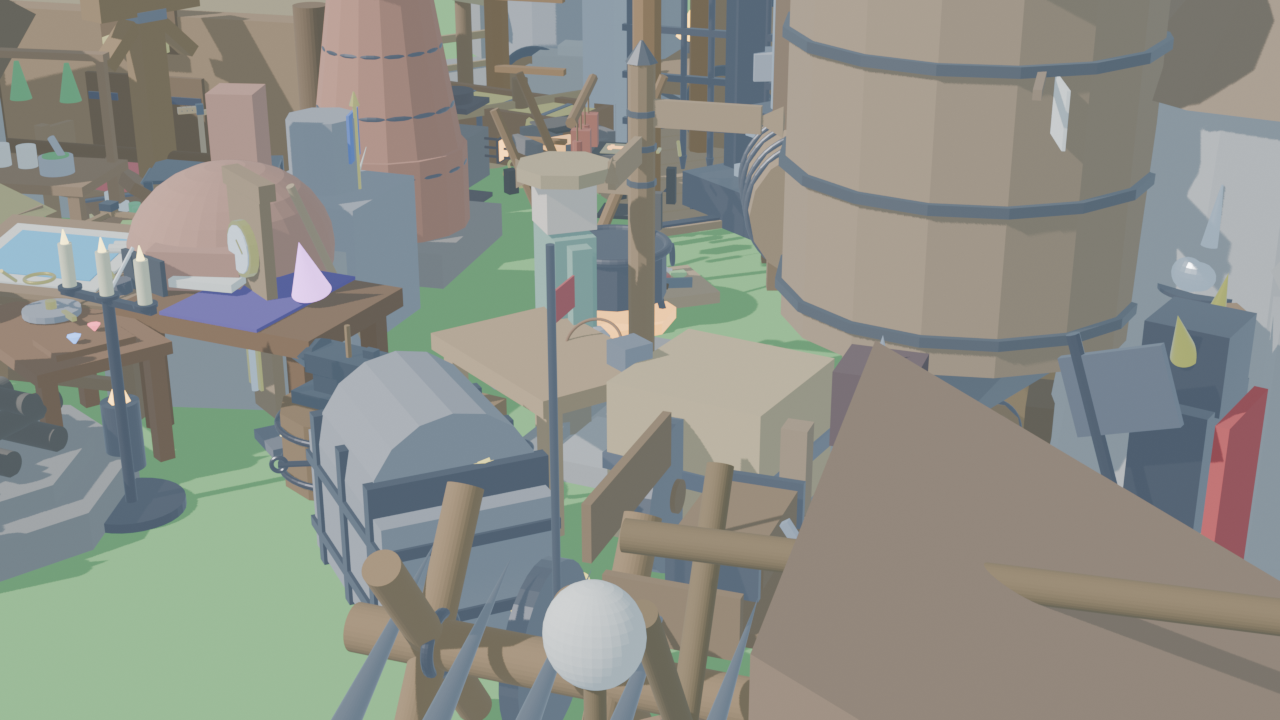
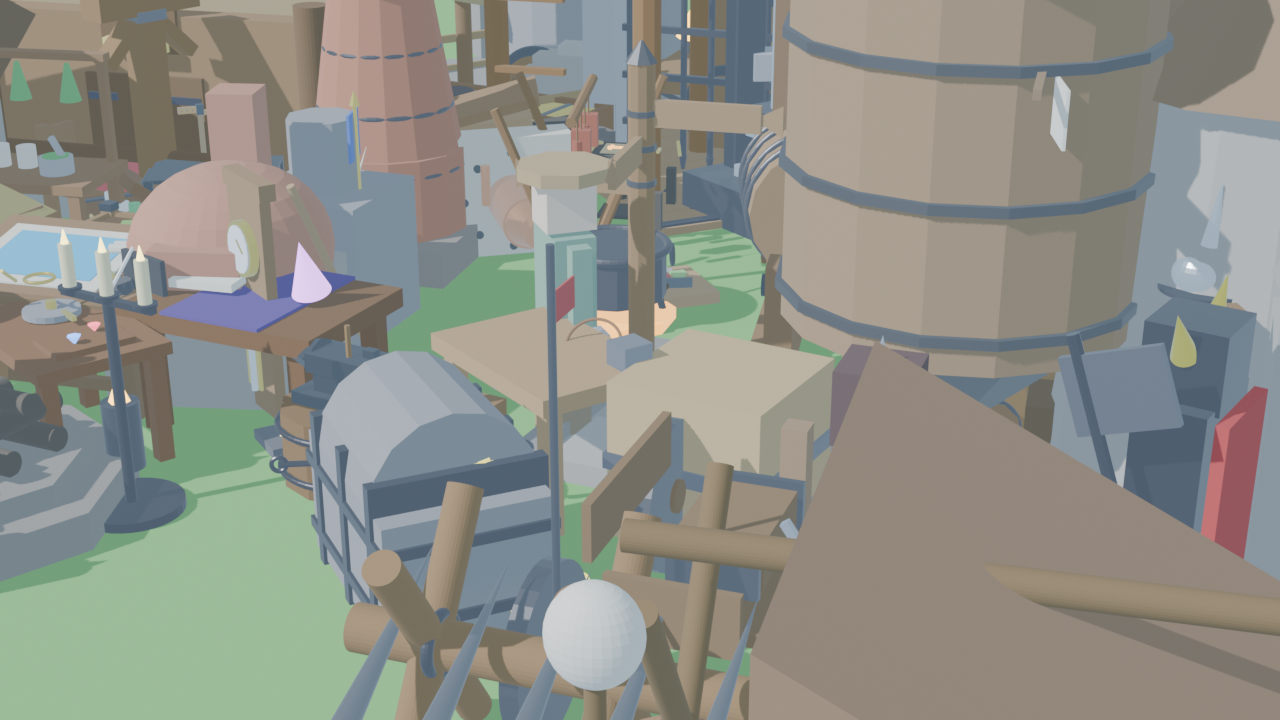
test(mechanisms): add unit tests, update 97-asset diorama, and document Milestone 35 (#29)

Changed region(s): [[0.3438, 0.0917, 0.4688, 0.3667], [0.5625, 0.3667, 0.625, 0.4889]]

diff --git a/tests/test_engine_vertical_slice.py b/tests/test_engine_vertical_slice.py
@@ -3662,6 +3662,113 @@ class TestEngineVerticalSlice(unittest.TestCase):
         arrow_taken = arrow_incoming * (1.0 - hoarding_defense)
         self.assertAlmostEqual(arrow_taken, 24.0, places=1)
 
+    def test_mechanical_bellows_airflow_and_temperature_boost(self):
+        """Verify mechanical bellows RPM threshold, forced draft airflow (0.45 m3/s), and 1550C blast temp."""
+        base_temp = 1100.0
+        max_boost_temp = 1550.0
+        min_operating_rpm = 12.0
+        rated_airflow = 0.45
+        kinetic_load_su = 32.0
+
+        def calc_bellows(rpm):
+            if abs(rpm) < min_operating_rpm:
+                return {"operating": False, "airflow": 0.0, "temp": base_temp, "su": 0.0}
+            rpm_ratio = min(2.0, max(0.5, abs(rpm) / 24.0))
+            flow = rated_airflow * rpm_ratio
+            temp_ratio = min(1.0, max(0.0, (abs(rpm) - min_operating_rpm) / 12.0))
+            temp = base_temp + (max_boost_temp - base_temp) * temp_ratio
+            return {"operating": True, "airflow": flow, "temp": temp, "su": kinetic_load_su}
+
+        # 1. Idle / below threshold (8 RPM < 12 RPM)
+        res_idle = calc_bellows(8.0)
+        self.assertFalse(res_idle["operating"])
+        self.assertEqual(res_idle["airflow"], 0.0)
+        self.assertEqual(res_idle["temp"], 1100.0)
+        self.assertEqual(res_idle["su"], 0.0)
+
+        # 2. Operating at standard 24 RPM
+        res_run = calc_bellows(24.0)
+        self.assertTrue(res_run["operating"])
+        self.assertAlmostEqual(res_run["airflow"], 0.45, places=2)
+        self.assertAlmostEqual(res_run["temp"], 1550.0, places=1)
+        self.assertEqual(res_run["su"], 32.0)
+
+        # High-temperature metallurgy unlock check (requires >= 1400C)
+        can_smelt_crucible_steel = res_run["temp"] >= 1400.0
+        self.assertTrue(can_smelt_crucible_steel)
+
+    def test_furnace_tuyere_damper_and_oxygen_yield_factor(self):
+        """Verify tuyere stoichiometric air injection, damper regulation, and +25% metal yield purity."""
+        def calc_tuyere(airflow, damper):
+            pressure = airflow * damper * 12.5
+            yield_factor = 1.0
+            if damper >= 0.75 and damper <= 0.92 and airflow > 0.1:
+                yield_factor = 1.25 # Optimal stoichiometry: +25% metal yield
+            elif damper > 0.92:
+                yield_factor = 0.90 # Over-oxidation: metal burns away
+            elif damper < 0.40:
+                yield_factor = 0.60 # Choked: incomplete combustion
+            return {"pressure_kpa": pressure, "yield_factor": yield_factor}
+
+        airflow = 0.45
+
+        # 1. Optimal damper (0.85) -> 1.25x yield bonus
+        res_optimal = calc_tuyere(airflow, 0.85)
+        self.assertAlmostEqual(res_optimal["yield_factor"], 1.25, places=2)
+        self.assertAlmostEqual(res_optimal["pressure_kpa"], 4.78, places=2)
+
+        # 2. Over-oxidized damper (0.98) -> 0.90x yield penalty
+        res_over = calc_tuyere(airflow, 0.98)
+        self.assertAlmostEqual(res_over["yield_factor"], 0.90, places=2)
+
+        # 3. Choked damper (0.20) -> 0.60x yield penalty
+        res_choked = calc_tuyere(airflow, 0.20)
+        self.assertAlmostEqual(res_choked["yield_factor"], 0.60, places=2)
+
+    def test_industrial_trip_hammer_camshaft_cadence_and_bloom_refining(self):
+        """Verify 3-cam industrial helve hammer 48 strikes/min cadence, bloom consolidation, and plating."""
+        rpm = 24.0
+        cam_count = 3
+        rps = rpm / 60.0
+        strikes_per_sec = rps * float(cam_count)
+        self.assertAlmostEqual(strikes_per_sec, 1.2, places=2)
+        strike_interval = 1.0 / strikes_per_sec
+        self.assertAlmostEqual(strike_interval, 0.833, places=2)
+
+        # 1. Consolidating spongy iron bloom into refined billet (4 strikes)
+        workpiece = "iron_bloom"
+        strikes_needed = 4
+        strikes_done = 4
+        finished_item = "wrought_iron_billet" if strikes_done >= strikes_needed else ""
+        self.assertEqual(finished_item, "wrought_iron_billet")
+
+        # 2. Drawing refined billet into armor plating (3 strikes -> 2 plates)
+        workpiece = "wrought_iron_billet"
+        strikes_needed = 3
+        strikes_done = 3
+        finished_item = "iron_plate"
+        plates_yield = 2 if strikes_done >= strikes_needed else 0
+        self.assertEqual(plates_yield, 2)
+
+    def test_industrial_foundry_kinetic_chain_power_balance(self):
+        """Verify kinetic power budgeting for complete mechanized foundry (Bellows + Tilt Hammer)."""
+        source_capacity = 256.0 # Water Wheel capacity
+        bellows_su = 32.0
+        tilt_hammer_su = 64.0
+        shafts_su = 0.0
+
+        foundry_total_load = bellows_su + tilt_hammer_su + shafts_su
+        self.assertEqual(foundry_total_load, 96.0)
+
+        # Network is well within capacity (96 <= 256)
+        is_overloaded = (foundry_total_load > source_capacity)
+        self.assertFalse(is_overloaded)
+
+        # Adding 3 additional heavy tilt hammers (64 * 3 = 192 SU)
+        overloaded_total = foundry_total_load + (tilt_hammer_su * 3) # 96 + 192 = 288 SU
+        self.assertEqual(overloaded_total, 288.0)
+        self.assertTrue(overloaded_total > source_capacity) # Overloaded! Stalls to 0 RPM
+
 if __name__ == "__main__":
     unittest.main()
 

diff --git a/tools/render_showcase.py b/tools/render_showcase.py
@@ -345,6 +345,15 @@ def build_diorama():
     # 89. Mobile Assault Belfry Siege Tower
     import_asset("siege_tower.glb", (-3.6, 5.2, 0.0), rot_z=15, scale=0.72)
 
+    # 90. Cam-Driven Mechanical Leather Accordion Bellows
+    import_asset("mechanical_bellows.glb", (-2.8, 1.2, 0.0), rot_z=45, scale=0.85)
+
+    # 91. Blast Furnace Refractory Tuyere Air Injection Assembly
+    import_asset("furnace_tuyere.glb", (-2.0, 1.2, 0.0), rot_z=-35, scale=0.90)
+
+    # 92. Heavy Water-Powered Camshaft Helve Tilt-Hammer
+    import_asset("industrial_trip_hammer.glb", (1.4, 1.2, 0.0), rot_z=120, scale=0.80)
+
     # Render output path
     output_dir = os.path.abspath(os.path.join(os.path.dirname(__file__), "..", "assets"))
     output_path = os.path.join(output_dir, "showcase_realm.png")

diff --git a/loyiha_logikasi/minecraft_modlari_integratsiyasi.md b/loyiha_logikasi/minecraft_modlari_integratsiyasi.md
@@ -680,8 +680,35 @@ Medieval davrning haqiqiy muhandisligi:
 - **Devorni Shturm Qilish**:
   - 6 ta askar tomonidan 0.6 m/s tezlikda qal'a devoriga surib keltiriladi.
   - Devorga yetib borganda 2.0 soniyada oldingi temir tirnoqli ko'prik pastga tashlanadi va devor parapetiga qadaladi.
-  - **Desant Bo'shatish**: Yuqori maydondagi 8 ta saralangan qilichboz jangchi soniyasiga 2 tadan (jami 4 soniyada) to'g'ridan-to'g'ri dushman devoriga yopirilib tushadi.
+  - **Desant Bo'shatish**: Yuqori maydondagi 8 ta saralangan qilichboz desantni 4 soniyada (2 troop/s) to'g'ridan-to'g'ri dushman devoriga yopirilib tushadi.
   - **O'q O'tmas Hording**: Minora ichidagi o'qchilar va shturmchilarga 70% o'qdan himoya aurasini ta'minlaydi.
+
+---
+
+## 24. Create Mod, TerraFirmaCraft & Vintage Story Integratsiyasi — Og'ir Metallurgiya Quymaxonasi: Mexanik Bosqon, Domna Forzonkasi va Kinetik Bolg'a (Milestone 35)
+
+### 24.1. Kinetik Ekssentrikli Mexanik Charm Bosqon (`MechanicalBellows` & `mechanical_bellows.glb`) — [Create Mod / Vintage Story]
+- **Muammo**: Domna pechlari va tigellarda qo'l bosqonlari orqali havo purkash 2 ta ishchini doimiy band qilib, haroratni faqat 1100°C darajada ushlab turadi; natijada yuqori sifatli po'lat va cho'yan eritib bo'lmaydi.
+- **Yechim (`MechanicalBellows` & `mechanical_bellows.glb`)**:
+  - Qo'shaloq garmonikasimon buklanuvchi charm kamera, eman ramka va orqa valga o'rnatilgan quyma temir ekssentrik kamshturgich (`mechanical_bellows.glb`).
+  - **Kinetik Quvvatga Ulanish**: 32 SU iste'mol qiladi (minimal 12 RPM talab etiladi).
+  - **Majburiy Havo Oqimi**: Soniyasiga 0.45 m³ siqilgan kuchli havo oqimi hosil qiladi.
+  - **Harorat Sakrashi (1550°C)**: O'choq haroratini 1100°C dan 1550°C gacha ko'tarib, yoqilg'i yonishini 2.5 barobar tezlashtiradi va Cho'yan (`pig_iron`), Yuqori Uglerodli Po'lat (`blister_steel`) va Tigel Qotishma Po'latlarini (`crucible_steel`) eritishni to'liq avtomatlashtiradi.
+
+### 24.2. Domna Pechi Mis Forzonkasi va Stexiometrik Klapan (`FurnaceTuyere` & `furnace_tuyere.glb`) — [TerraFirmaCraft]
+- **Tavsif**: Pech o'txonasi devorini teshib kiruvchi qizil mis naycha, suv bilan sovutiluvchi g'ilof, o'tga chidamli shomot gardishi va richagli kapalaksimon klapan (damper) (`furnace_tuyere.glb`).
+- **Kislorod Bosimini Boshqarish**:
+  - Havo klapani (0.75 - 0.92 oralig'ida) pech ichidagi yonish stexiometriyasini muvozanatlaydi.
+  - **+25% Metall Hosildorligi**: Metall oksidlanishi va shlakka aylanib behuda ketishining oldini oladi (hosil koeffitsienti 1.25x ga oshadi).
+  - Manometr ko'rsatkichi orqali pech bosimi doimiy monitoring qilinadi.
+
+### 24.3. Suv Quvvatli Katta Sanoat Tiltr-Bolg'asi (Helve Hammer) (`IndustrialTripHammer` & `industrial_trip_hammer.glb`) — [Create / Vintage Story / Medieval Engineers]
+- **Tavsif**: Katta quyma temir sandon, 800 kg li eman dastali og'ir po'lat bolg'a va 3 ta egri temir barmoqli aylanuvchi taqsimlash vali (`industrial_trip_hammer.glb`).
+- **Avtomatlashgan Temirchilik Kadensi**:
+  - 24 RPM tezlikda 3 ta barmoq har daqiqada 48 marta kuchli zarba (har 1.25 soniyada 450 Joul) beradi.
+  - **G'ovakli Doma Temirini Zichlash**: 4 zarbada qizigan g'ovakli temir quymasini (`iron_bloom`) sof temir zagotovkaga (`wrought_iron_billet`) aylantiradi.
+  - **Sovut Plitalari va Qurollar Yoyish**: 3 zarbada zagotovkani ikkita tekis temir plastinaga (`iron_plate`) yoyadi — qo'l temirchiligiga nisbatan 5 barobar tez va nol inson mehnati bilan!
+
 
 
 

diff --git a/ozgarishlar_tarixi/index.md b/ozgarishlar_tarixi/index.md
@@ -7,6 +7,25 @@
 - Dastlabki Godot prototipi va foydalanuvchining showcase fayllari saqlandi.
 - Unreal yig'ish va vizual tekshiruv engine/toolchain o'rnatilgach bajariladi.
 
+## 2026-09-27 — Milestone 35: Create Mod, TerraFirmaCraft & Vintage Story Og'ir Metallurgiya Quymaxonasi: Mexanik Bosqon, Domna Forzonkasi va Kinetik Bolg'a (Issue #29)
+- **Kinetik Ekssentrikli Mexanik Charm Bosqon (`MechanicalBellows` & `mechanical_bellows.glb`)**:
+  - Qo'shaloq garmonikasimon buklanuvchi charm kamera, eman ramka va orqa valga o'rnatilgan quyma temir ekssentrik kamshturgich (`mechanical_bellows.glb`).
+  - Kinetik quvvatga ulanish: 32 SU sarf (minimal 12 RPM).
+  - Majburiy havo oqimi: soniyasiga 0.45 m³ siqilgan kuchli havo oqimi hosil qiladi.
+  - Harorat sakrashi (1550°C): o'choq haroratini 1100°C dan 1550°C gacha ko'tarib, cho'yan (`pig_iron`), yuqori uglerodli po'lat (`blister_steel`) va tigel qotishma po'latlarini (`crucible_steel`) eritishni to'liq avtomatlashtirish.
+- **Domna Pechi Mis Forzonkasi va Stexiometrik Klapan (`FurnaceTuyere` & `furnace_tuyere.glb`)**:
+  - Pech devorini teshib kiruvchi qizil mis naycha, sovutish g'ilofi, shomot gardishi va kapalaksimon klapan (`furnace_tuyere.glb`).
+  - Havo klapani (0.75 - 0.92) orqali yonish stexiometriyasini muvozanatlash: +25% metall hosildorligi (shlak kamayadi).
+  - Manometr orqali o'choq ichidagi dinamik bosimni uzluksiz o'lchash.
+- **Suv Quvvatli Katta Sanoat Tilt-Bolg'asi (Helve Hammer) (`IndustrialTripHammer` & `industrial_trip_hammer.glb`)**:
+  - Katta quyma temir sandon, 800 kg li eman dastali og'ir po'lat bolg'a va 3 ta egri temir barmoqli aylanuvchi taqsimlash vali (`industrial_trip_hammer.glb`).
+  - 24 RPM tezlikda 3 ta barmoq har daqiqada 48 marta kuchli zarba (har 1.25 soniyada 450 Joul) beradi.
+  - G'ovakli doma temirini zichlash: 4 zarbada temir quymasini (`iron_bloom`) sof temir zagotovkaga (`wrought_iron_billet`) aylantiradi.
+  - Sovut plitalari va qurollar yoyish: 3 zarbada zagotovkani ikkita tekis temir plastinaga (`iron_plate`) yoyadi (5 barobar tez va nol inson mehnati bilan).
+- **Yangi 3D Modellar (Blender 5.2)**: `mechanical_bellows.glb`, `furnace_tuyere.glb`, `industrial_trip_hammer.glb` yaratildi (jami **97 ta GLB model**).
+- **Yangi Qirollik Dioramasi**: Barcha 97 ta aktiv ishtirokidagi diorama `assets/showcase_realm.png` da render qilindi va brainga saqlandi.
+- **Avtomatlashgan Testlar**: Jami **128 ta engine testi** (umumiy **185 ta test**) 100% muvaffaqiyat bilan o'tdi.
+
 ## 2026-09-27 — Milestone 34: Stronghold & Mount & Blade II Og'ir Qamal Qurollari: Gravitatsion Trebyushe, Zirhli Devorbuzar va Hujum Minorasi Belfri (Issue #27)
 - **Qarshi Toshli Gravitatsion Trebyushe (`TrebuchetSiege` & `trebuchet_siege.glb`)**:
   - Uchburchakli mustahkam eman fermasi, bronza vkladishli po'lat markaziy val va 12 tonnalik tosh to'ldirilgan qarshi yuk qutisi (`trebuchet_siege.glb`).
